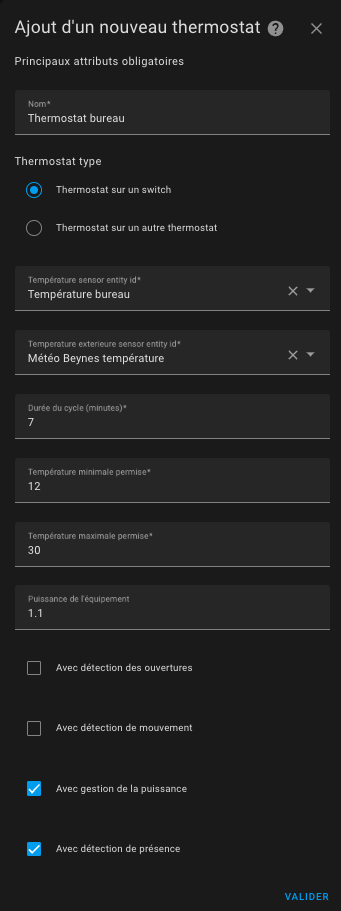
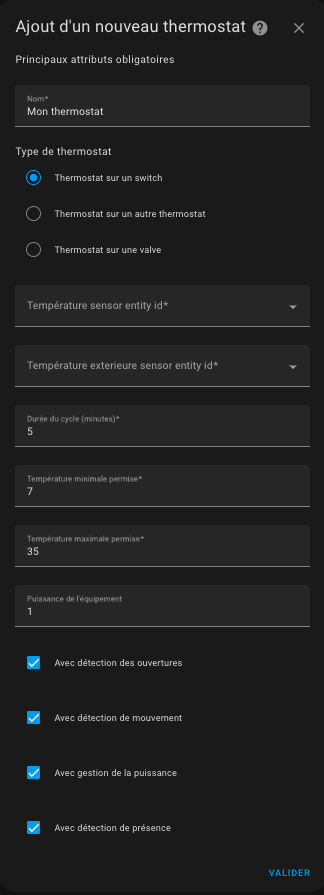
README_fr update

diff --git a/README-fr.md b/README-fr.md
@@ -56,7 +56,7 @@ Ce composant personnalisé pour Home Assistant est une mise à niveau et est une
 
 
 > ![Nouveau](https://github.com/jmcollin78/versatile_thermostat/blob/main/images/new-icon.png?raw=true) _*Nouveautés*_
-> * **Release 3.7**: Ajout du type de Versatile Thermostat `over number` pour piloter une vanne TRV directement ou tout autre équipement type gradateur pour le chauffage. La régulation se fait alors directement en agissant sur le pourcentage d'ouverture de l'entité sous-jacente : 0 la vanne est coupée, 100 : la vanne est ouverte à fond. Cf. [#131](https://github.com/jmcollin78/versatile_thermostat/issues/131)
+> * **Release 3.7**: Ajout du type de Versatile Thermostat `over valve` pour piloter une vanne TRV directement ou tout autre équipement type gradateur pour le chauffage. La régulation se fait alors directement en agissant sur le pourcentage d'ouverture de l'entité sous-jacente : 0 la vanne est coupée, 100 : la vanne est ouverte à fond. Cf. [#131](https://github.com/jmcollin78/versatile_thermostat/issues/131)
 > * **Release 3.6**: Ajout du paramètre `motion_off_delay` pour améliorer la gestion de des mouvements [#116](https://github.com/jmcollin78/versatile_thermostat/issues/116), [#128](https://github.com/jmcollin78/versatile_thermostat/issues/128). Ajout du mode AC (air conditionné) pour un VTherm over switch. Préparation du projet Github pour faciliter les contributions [#127](https://github.com/jmcollin78/versatile_thermostat/issues/127)
 > * **Release 3.5**: Plusieurs thermostats sont possibles en "thermostat over climate" mode [#113](https://github.com/jmcollin78/versatile_thermostat/issues/113)
 > * **Release 3.4**: bug fix et exposition des preset temperatures pour le mode AC [#103](https://github.com/jmcollin78/versatile_thermostat/issues/103)
@@ -64,7 +64,7 @@ Ce composant personnalisé pour Home Assistant est une mise à niveau et est une
 > * **Release 3.2** : ajout de la possibilité de commander plusieurs switch à partir du même thermostat. Dans ce mode, les switchs sont déclenchés avec un délai pour minimiser la puissance nécessaire à un instant (on minimise les périodes de recouvrement). Voir [Configuration](#sélectionnez-des-entités-pilotées)
 
 <details>
-<summary>Autre version</summary>
+<summary>Autres versions</summary>
 
 > * **Release 3.1** : ajout d'une détection de fenêtres/portes ouvertes par chute de température. Cette nouvelle fonction permet de stopper automatiquement un radiateur lorsque la température chute brutalement. Voir [Le mode auto](#le-mode-auto)
 > * **Release majeure 3.0** : ajout d'un équipement thermostat et de capteurs (binaires et non binaires) associés. Beaucoup plus proche de la philosphie Home Assistant, vous avez maintenant un accès direct à l'énergie consommée par le radiateur piloté par le thermostat et à plein d'autres capteurs qui seront utiles dans vos automatisations et dashboard.
@@ -75,7 +75,7 @@ Ce composant personnalisé pour Home Assistant est une mise à niveau et est une
 </details>
 
 # Merci pour la bière [buymecoffee](https://www.buymeacoffee.com/jmcollin78)
-Un grand merci à @salabur, @pvince83, @bergoglio, @EPicLURcher, @ecolorado66, @Kriss1670, @maia, @f.maymil, @moute69 pour les bières. Ca fait très plaisir.
+Un grand merci à @salabur, @pvince83, @bergoglio, @EPicLURcher, @ecolorado66, @Kriss1670, @maia, @f.maymil, @moutte69 pour les bières. Ca fait très plaisir.
 
 
 # Quand l'utiliser et ne pas l'utiliser
@@ -86,7 +86,7 @@ Ce thermostat peut piloter 2 types d'équipement:
    c. un capteur de température externe (pensez à l'intégration météo si vous n'en avez pas)
 2. un autre thermostat qui a ses propres modes de fonctionnement (nommé ```thermostat_over_climate```). Pour ce type de thermostat la configuration minimale nécessite :
    a. un équipement - comme une climatisation, une valve thermostatique - qui est pilotée par sa propre entity de type ```climate```,
-3. un équipement qui peut prendre une valeur de 0 à 100%. 0 le chauffage est coupé, 100% il est ouvert à fond. Ce type permet de piloter une valve thermostatique (cf. valve Shelly) qui expose une entité de type `number.` permetttant de piloter directement l'ouverture de la vanne
+3. un équipement qui peut prendre une valeur de 0 à 100% (nommée ```thermostat_over_valve```). A 0 le chauffage est coupé, 100% il est ouvert à fond. Ce type permet de piloter une valve thermostatique (cf. valve Shelly) qui expose une entité de type `number.` permetttant de piloter directement l'ouverture de la vanne. Versatile Thermostat régule la température de la pièce en jouant sur le pourcentage d'ouverture, à l'aide des capteurs de température intérieur et extérieur en utilisant l'algorithme TPI décrit ci-dessous.
 
 Le type ```thermostat_over_climate``` permet d'ajouter à votre équipement existant toutes les fonctionnalités fournies par VersatileThermostat. L'entité climate VersatileThermostat pilotera votre entité climate, en la coupant si les fenêtres sont ouvertes, la passant en mode Eco si personne n'est présent, etc. Cf. [ici](#pourquoi-une-nouvelle-implémentation-du-thermostat). Pour ce type de thermostat, les cycles éventuels de chauffe sont pilotés par l'entité climate sous-jacente et pas par le Versatile Thermostat lui-même.
 
@@ -116,10 +116,10 @@ Ce composant nommé __Versatile thermostat__ gère les cas d'utilisation suivant
 ## HACS installation (recommendé)
 
 1. Installez [HACS](https://hacs.xyz/). De cette façon, vous obtenez automatiquement les mises à jour.
-2. Ajoutez ce repository Github en tant que repository personnalisé dans les paramètres HACS.
+2. L'intégration Versatile Thermostat est maintenant proposée directement depuis l'interface HACF (onglet intégrations),
 3. recherchez et installez "Versatile Thermostat" dans HACS et cliquez sur "installer".
 4. Redémarrez Home Assistant.
-5. Ensuite, vous pouvez ajouter une intégration de Versatile Thermostat dans la page d'intégration. Vous ajoutez autant de thermostats dont vous avez besoin (généralement un par radiateur qui doit être géré ou par pompe dans le cas d'un chauffage centralisé)
+5. Ensuite, vous pouvez ajouter une intégration de Versatile Thermostat dans la page Paramètres / Intégrations. Vous ajoutez autant de thermostats dont vous avez besoin (généralement un par radiateur ou par groupe de radiateurs qui doivent être gérés ou par pompe dans le cas d'un chauffage centralisé)
 
 
 ## Installation manuelle
@@ -150,10 +150,10 @@ Suivez ensuite les étapes de configuration comme suit :
 
 Donnez les principaux attributs obligatoires :
 1. un nom (sera le nom de l'intégration et aussi le nom de l'entité climate)
-2. le type de thermostat ```thermostat_over_switch``` pour piloter un radiateur commandé par un switch ou ```thermostat_over_climate``` pour piloter un autre thermostat. Cf. [ci-dessus](#pourquoi-une-nouvelle-implémentation-du-thermostat)
+2. le type de thermostat ```thermostat_over_switch``` pour piloter un radiateur commandé par un switch ou ```thermostat_over_climate``` pour piloter un autre thermostat, ou ```thermostat_over_valve``` Cf. [ci-dessus](#pourquoi-une-nouvelle-implémentation-du-thermostat)
 4. un identifiant d'entité de capteur de température qui donne la température de la pièce dans laquelle le radiateur est installé,
 5. une entité capteur de température donnant la température extérieure. Si vous n'avez pas de capteur externe, vous pouvez utiliser l'intégration météo locale
-6. une durée de cycle en minutes. A chaque cycle, le radiateur s'allumera puis s'éteindra pendant une durée calculée afin d'atteindre la température ciblée (voir [preset](#configure-the-preset-temperature) ci-dessous),
+6. une durée de cycle en minutes. A chaque cycle, le radiateur s'allumera puis s'éteindra pendant une durée calculée afin d'atteindre la température ciblée (voir [preset](#configure-the-preset-temperature) ci-dessous). En mode ```over_climate```, le cycle ne sert qu'à faire des controles de base mais ne régule pas directement la température. C'est le ```climate``` sous-jacent qui le fait,
 7. les températures minimales et maximales du thermostat,
 8. une puissance de l'équipement ce qui va activer les capteurs de puissance et énergie consommée par l'appareil,
 9. la liste des fonctionnalités qui seront utilisées pour ce thermostat. En fonction de vos choix, les écrans de configuration suivants s'afficheront ou pas.
@@ -163,7 +163,15 @@ Donnez les principaux attributs obligatoires :
       2. si le cycle est trop court, le radiateur ne pourra jamais atteindre la température cible en effet pour le radiateur à accumulation et il sera sollicité inutilement
 
 ## Sélectionnez des entités pilotées
-En fonction de votre choix sur le type de thermostat, vous devrez choisir une ou plusieurs entités de type switch ou une entité de type climate. Seules les entités compatibles sont présentées.
+En fonction de votre choix sur le type de thermostat, vous devrez choisir une ou plusieurs entités de type `switch`, `climate` ou `number`. Seules les entités compatibles avec le type sont présentées.
+
+> ![Astuce](https://github.com/jmcollin78/versatile_thermostat/blob/main/images/tips.png?raw=true) _*Comment choisir le type*_
+> Le choix du type est important. Même si il toujours possible de le modifier ensuite via l'IHM de configuration, il est préférable de se poser les quelques questions suivantes :
+> 1. **quel type d'équipement je vais piloter ?** Dans l'ordre voici ce qu'il faut faire :
+>   a. si vous avez une vanne thermostatique (TRV) commandable dans Home Assistant via une entité de type ```number``` (par exemple une _Shelly TRV_), choisissez le type `over_valve`. C'est le type le plus direct et qui assure la meilleure régulation,
+>   b. si vous avez un radiateur électrique (avec ou sans fil pilote) et qu'une entité de type ```switch``` permet de l'allumer ou de l'éteindre, alors le type ```over_switch``` est préférable. La régulation sera faite par le Versatile Thermostat en fonction de la température mesuré par votre thermomètre, à l'endroit ou vous l'avez placé,
+>   c. dans tous les autres cas, utilisez le mode ```over_climate```. Vous gardez votre entité ```climate``` d'origine et le Versatile Thermostat "ne fait que" piloter le on/off et la température cible de votre thermostat d'origine. La régulation est faite par votre thermostat d'origine dans ce cas. Ce mode est particulièrement adapté aux climatisations réversible tout-en-un dont l'exposition dans Home Assistant se limite à une entité de type ```climate```
+> 2. **quelle type de régulation je veux ?** Si l'équipement piloté possède son propre mécanisme de régulation (clim, certaine vanne TRV) et que cette régulation fonctionne bien, optez pour un ```over_climate```
 
 Pour un thermostat de type ```thermostat_over_switch```:
 ![image](https://github.com/jmcollin78/versatile_thermostat/blob/main/images/config-linked-entity.png?raw=true)
@@ -179,6 +187,13 @@ Pour un thermostat de type ```thermostat_over_climate```:
 ![image](https://github.com/jmcollin78/versatile_thermostat/blob/main/images/config-linked-entity2.png?raw=true)
 
 Il est possible de choisir un thermostat over climate qui commande une climatisation réversible en cochant la case "AC Mode". Dans ce cas, selon l'équipement commandé vous aurez accès au chauffage et/ou au réfroidissement.
+
+Pour un thermostat de type ```thermostat_over_valve```:
+![image](https://github.com/jmcollin78/versatile_thermostat/blob/main/images/config-linked-entity3.png?raw=true)
+Vous pouvez choisir jusqu'à entité du domaine ```number``` ou ```ìnput_number``` qui vont commander les vannes.
+L'algorithme à utiliser est aujourd'hui limité à TPI est disponible. Voir [algorithme](#algorithme).
+
+Il est possible de choisir un thermostat over valve qui commande une climatisation en cochant la case "AC Mode". Dans ce cas, seul le mode refroidissement sera visible.
 
 ## Configurez les coefficients de l'algorithme TPI
 
@@ -342,62 +357,66 @@ Voir [exemple de réglages](#examples-tuning) pour avoir des exemples de réglag
 
 ## Synthèse des paramètres
 
-| Paramètre | Libellé | "over switch" | "over climate" |
-| ----------| --------| --- | ---|
-| ``name`` | Nom | X | X |
-| ``thermostat_type`` | Type de thermostat | X | X |
-| ``temperature_sensor_entity_id`` | Temperature sensor entity id | X | - |
-| ``external_temperature_sensor_entity_id`` | Température exterieure sensor entity id | X | - |
-| ``cycle_min`` | Durée du cycle (minutes) | X | X |
-| ``temp_min`` | Température minimale permise | X | X |
-| ``temp_max`` | Température maximale permise | X | X |
-| ``device_power`` | Puissance de l'équipement | X | X |
-| ``use_window_feature`` | Avec détection des ouvertures | X | X |
-| ``use_motion_feature`` | Avec détection de mouvement | X | X |
-| ``use_power_feature`` | Avec gestion de la puissance | X | X |
-| ``use_presence_feature`` | Avec détection de présence | X | X |
-| ``heater_entity1_id`` | 1er radiateur | X | - |
-| ``heater_entity2_id`` | 2ème radiateur | X | - |
-| ``heater_entity3_id`` | 3ème radiateur | X | - |
-| ``heater_entity4_id`` | 4ème radiateur | X | - |
-| ``proportional_function`` | Algorithme | X | - |
-| ``climate_entity1_id`` | Thermostat sous-jacent | - | X |
-| ``climate_entity2_id`` | 2ème thermostat sous-jacent | - | X |
-| ``climate_entity3_id`` | 3ème thermostat sous-jacent | - | X |
-| ``climate_entity4_id`` | 4ème thermostat sous-jacent | - | X |
-| ``ac_mode`` | utilisation de l'air conditionné (AC) ? | X | X |
-| ``tpi_coef_int`` | Coefficient à utiliser pour le delta de température interne | X | - |
-| ``tpi_coef_ext`` | Coefficient à utiliser pour le delta de température externe | X | - |
-| ``eco_temp`` | Température en preset Eco | X | X |
-| ``comfort_temp`` | Température en preset Confort | X | X |
-| ``boost_temp`` | Température en preset Boost | X | X |
-| ``eco_ac_temp`` | Température en preset Eco en mode AC | X | X |
-| ``comfort_ac_temp`` | Température en preset Confort en mode AC | X | X |
-| ``boost_ac_temp`` | Température en preset Boost en mode AC | X | X |
-| ``window_sensor_entity_id`` | Détecteur d'ouverture (entity id) |  X | X |
-| ``window_delay`` | Délai avant extinction (secondes) | X | X |
-| ``window_auto_open_threshold`` | Seuil haut de chute de température pour la détection automatique (en °/min) | X | X |
-| ``window_auto_close_threshold`` | Seuil bas de chute de température pour la fin de détection automatique (en °/min) | X | X |
-| ``window_auto_max_duration`` | Durée maximum d'une extinction automatique (en min) | X | X |
-| ``motion_sensor_entity_id`` | Détecteur de mouvement entity id | X | X |
-| ``motion_delay`` | Délai avant prise en compte du mouvement (seconds) | X | X |
-| ``motion_off_delay`` | Délai avant prise en compte de la fin de mouvement (seconds) | X | X |
-| ``motion_preset`` | Preset à utiliser si mouvement détecté | X | X |
-| ``no_motion_preset`` | Preset à utiliser si pas de mouvement détecté | X | X |
-| ``power_sensor_entity_id`` | Capteur de puissance totale (entity id) | X | X |
-| ``max_power_sensor_entity_id`` | Capteur de puissance Max (entity id) | X | X |
-| ``power_temp`` | Température si délestaqe | X | X |
-| ``presence_sensor_entity_id`` | Capteur de présence entity id (true si quelqu'un est présent) | X | X |
-| ``eco_away_temp`` | Température en preset Eco en cas d'absence | X | X |
-| ``comfort_away_temp`` | Température en preset Comfort en cas d'absence | X | X |
-| ``boost_away_temp`` | Température en preset Boost en cas d'absence | X | X |
-| ``eco_ac_away_temp`` | Température en preset Eco en cas d'absence en mode AC | X | X |
-| ``comfort_ac_away_temp`` | Température en preset Comfort en cas d'absence en mode AC | X | X |
-| ``boost_ac_away_temp`` | Température en preset Boost en cas d'absence en mode AC | X | X |
-| ``minimal_activation_delay`` | Délai minimal d'activation | X | - |
-| ``security_delay_min`` | Délai maximal entre 2 mesures de températures | X | - |
-| ``security_min_on_percent`` | Pourcentage minimal de puissance pour passer en mode sécurité | X | - |
-| ``security_default_on_percent`` | Pourcentage de puissance a utiliser en mode securité | X | - |
+| Paramètre | Libellé | "over switch" | "over climate" | "over valve" |
+| ----------| --------| ------------- | ---------------| -------------|
+| ``name`` | Nom | X | X | X |
+| ``thermostat_type`` | Type de thermostat | X | X | X |
+| ``temperature_sensor_entity_id`` | Temperature sensor entity id | X | - | X |
+| ``external_temperature_sensor_entity_id`` | Température exterieure sensor entity id | X | - | X |
+| ``cycle_min`` | Durée du cycle (minutes) | X | X | X |
+| ``temp_min`` | Température minimale permise | X | X | X |
+| ``temp_max`` | Température maximale permise | X | X | X |
+| ``device_power`` | Puissance de l'équipement | X | X | X |
+| ``use_window_feature`` | Avec détection des ouvertures | X | X | X |
+| ``use_motion_feature`` | Avec détection de mouvement | X | X | X |
+| ``use_power_feature`` | Avec gestion de la puissance | X | X | X |
+| ``use_presence_feature`` | Avec détection de présence | X | X | X |
+| ``heater_entity1_id`` | 1er radiateur | X | - | - |
+| ``heater_entity2_id`` | 2ème radiateur | X | - | - |
+| ``heater_entity3_id`` | 3ème radiateur | X | - | - |
+| ``heater_entity4_id`` | 4ème radiateur | X | - | - |
+| ``proportional_function`` | Algorithme | X | - | - |
+| ``climate_entity1_id`` | Thermostat sous-jacent | - | X | - |
+| ``climate_entity2_id`` | 2ème thermostat sous-jacent | - | X | - |
+| ``climate_entity3_id`` | 3ème thermostat sous-jacent | - | X | - |
+| ``climate_entity4_id`` | 4ème thermostat sous-jacent | - | X | - |
+| ``valve_entity1_id`` | Vanne sous-jacente      | - | - | X |
+| ``valve_entity2_id`` | 2ème vanne sous-jacente | - | - | X |
+| ``valve_entity3_id`` | 3ème vanne sous-jacente | - | - | X |
+| ``valve_entity4_id`` | 4ème vanne sous-jacente | - | - | X |
+| ``ac_mode`` | utilisation de l'air conditionné (AC) ? | X | X | X |
+| ``tpi_coef_int`` | Coefficient à utiliser pour le delta de température interne | X | - | X |
+| ``tpi_coef_ext`` | Coefficient à utiliser pour le delta de température externe | X | - | X |
+| ``eco_temp`` | Température en preset Eco | X | X | X |
+| ``comfort_temp`` | Température en preset Confort | X | X | X |
+| ``boost_temp`` | Température en preset Boost | X | X | X |
+| ``eco_ac_temp`` | Température en preset Eco en mode AC | X | X | X |
+| ``comfort_ac_temp`` | Température en preset Confort en mode AC | X | X | X |
+| ``boost_ac_temp`` | Température en preset Boost en mode AC | X | X | X |
+| ``window_sensor_entity_id`` | Détecteur d'ouverture (entity id) |  X | X | X |
+| ``window_delay`` | Délai avant extinction (secondes) | X | X | X |
+| ``window_auto_open_threshold`` | Seuil haut de chute de température pour la détection automatique (en °/min) | X | X | X |
+| ``window_auto_close_threshold`` | Seuil bas de chute de température pour la fin de détection automatique (en °/min) | X | X | X |
+| ``window_auto_max_duration`` | Durée maximum d'une extinction automatique (en min) | X | X | X |
+| ``motion_sensor_entity_id`` | Détecteur de mouvement entity id | X | X | X |
+| ``motion_delay`` | Délai avant prise en compte du mouvement (seconds) | X | X | X |
+| ``motion_off_delay`` | Délai avant prise en compte de la fin de mouvement (seconds) | X | X | X |
+| ``motion_preset`` | Preset à utiliser si mouvement détecté | X | X | X |
+| ``no_motion_preset`` | Preset à utiliser si pas de mouvement détecté | X | X | X |
+| ``power_sensor_entity_id`` | Capteur de puissance totale (entity id) | X | X | X |
+| ``max_power_sensor_entity_id`` | Capteur de puissance Max (entity id) | X | X | X |
+| ``power_temp`` | Température si délestaqe | X | X | X |
+| ``presence_sensor_entity_id`` | Capteur de présence entity id (true si quelqu'un est présent) | X | X | X |
+| ``eco_away_temp`` | Température en preset Eco en cas d'absence | X | X | X |
+| ``comfort_away_temp`` | Température en preset Comfort en cas d'absence | X | X | X |
+| ``boost_away_temp`` | Température en preset Boost en cas d'absence | X | X | X |
+| ``eco_ac_away_temp`` | Température en preset Eco en cas d'absence en mode AC | X | X | X |
+| ``comfort_ac_away_temp`` | Température en preset Comfort en cas d'absence en mode AC | X | X | X |
+| ``boost_ac_away_temp`` | Température en preset Boost en cas d'absence en mode AC | X | X | X |
+| ``minimal_activation_delay`` | Délai minimal d'activation | X | - | - |
+| ``security_delay_min`` | Délai maximal entre 2 mesures de températures | X | - | X |
+| ``security_min_on_percent`` | Pourcentage minimal de puissance pour passer en mode sécurité | X | - | X |
+| ``security_default_on_percent`` | Pourcentage de puissance a utiliser en mode securité | X | - | X |
 
 # Exemples de réglage
 
@@ -448,12 +467,12 @@ Cette intégration utilise un algorithme proportionnel. Un algorithme proportion
 Cet algorithme fait converger la température et arrête d'osciller.
 
 ## Algorithme TPI
-L'algorithme TPI consiste à calculer à chaque cycle un pourcentage d'état On vs Off pour le radiateur en utilisant la température cible, la température actuelle dans la pièce et la température extérieure actuelle.
+L'algorithme TPI consiste à calculer à chaque cycle un pourcentage d'état On vs Off pour le radiateur en utilisant la température cible, la température actuelle dans la pièce et la température extérieure actuelle. Cet algorithme n'est donc valable que pour les Versatile Thermostat qui régulent : `over_switch` et `over_valve`.
 
 Le pourcentage est calculé avec cette formule :
 
     on_percent = coef_int * (température cible - température actuelle) + coef_ext * (température cible - température extérieure)
-    Ensuite, faites 0 <= on_percent <= 1
+    Ensuite, limité 0 <= on_percent <= 1
 
 Les valeurs par défaut pour coef_int et coef_ext sont respectivement : ``0.6`` et ``0.01``. Ces valeurs par défaut conviennent à une pièce standard bien isolée.
 
@@ -461,7 +480,9 @@ Pour régler ces coefficients, gardez à l'esprit que :
 1. **si la température cible n'est pas atteinte** après une situation stable, vous devez augmenter le ``coef_ext`` (le ``on_percent`` est trop bas),
 2. **si la température cible est dépassée** après une situation stable, vous devez diminuer le ``coef_ext`` (le ``on_percent`` est trop haut),
 3. **si l'atteinte de la température cible est trop lente**, vous pouvez augmenter le ``coef_int`` pour donner plus de puissance au réchauffeur,
-4. **si l'atteinte de la température cible est trop rapide et que des oscillations apparaissent** autour de la cible, vous pouvez diminuer le ``coef_int`` pour donner moins de puissance au radiateur
+4. **si l'atteinte de la température cible est trop rapide et que des oscillations apparaissent** autour de la cible, vous pouvez diminuer le ``coef_int`` pour donner moins de puissance au radiateur.
+
+En type `over_valve` le `on_percent` est ramené à une valeur entre 0 et 100% et sert directement à commander l'ouverture de la vanne.
 
 Voir quelques situations à [examples](#some-results).
 
@@ -485,6 +506,7 @@ Dans l'ordre, il y a :
 11. l'état de sécurité,
 12. l'état de l'ouverture (si la gestion des ouvertures est configurée),
 13. l'état du mouvement (si la gestion du mouvements est configurée)
+14. le pourcentage d'ouverture de la vanne (pour le type `over_valve`)
 
 Pour colorer les capteurs, ajouter ces lignes et personnalisez les au besoin, dans votre configuration.yaml :
 
@@ -626,6 +648,7 @@ Les attributs personnalisés sont les suivants :
 | ``last_update_datetime`` | La date et l'heure au format ISO8866 de cet état |
 | ``friendly_name`` | Le nom du thermostat |
 | ``supported_features`` | Une combinaison de toutes les fonctionnalités prises en charge par ce thermostat. Voir la documentation officielle sur l'intégration climatique pour plus d'informations |
+| ``valve_open_percent`` | Le pourcentage d'ouverture de la vanne |
 
 # Quelques résultats
 
